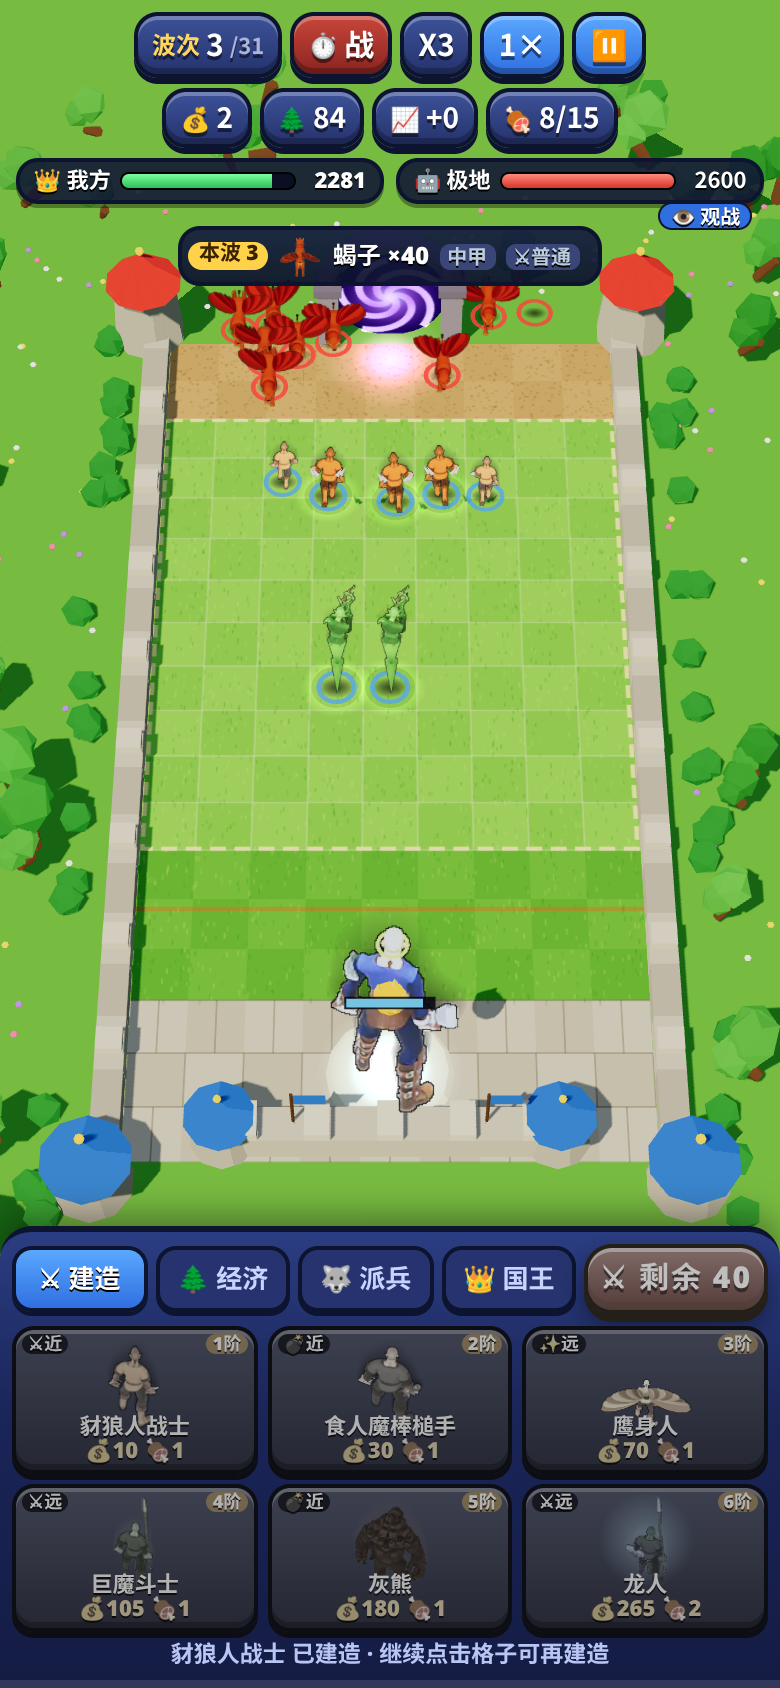
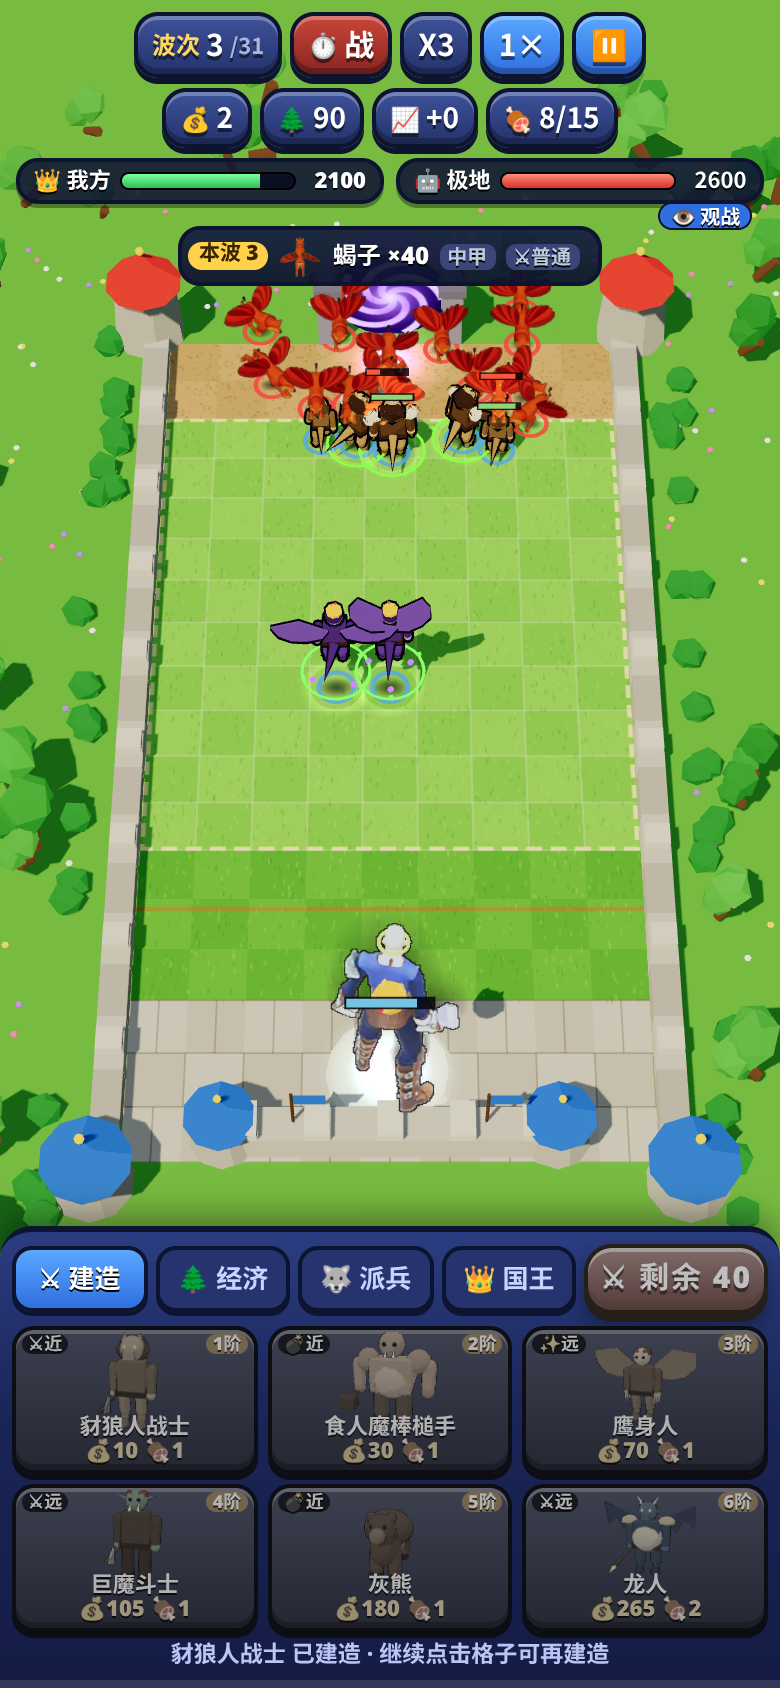
Model remake: Beast (gnolls, ogres, harpies, forest trolls, bears, dragonspawn, red dragon); humanoid lift option

diff --git a/toonrecipes.js b/toonrecipes.js
@@ -124,3 +124,16 @@ R('h07T',{k:1.12,h:1.08,legs:'none',floatY:0.22,lowC:0x2a8a9a,lowM:'n',torso:'ro
 R('h07U',{k:1.1,plan:'quad',skin:0x5a8a3a,skin2:0xc8b86a,headType:'lizard',eye:0xffe04a,legLen:0.2,bodyLen:0.75,bodyH:0.24,bw:1.2,tailLen:0.6,tailW:1.6,claws:true,spikes:true,spikeC:0xd87a3a,atk:'bite'});
 R('h07V',{k:1.18,h:1.12,bw:1.3,legs:'none',floatY:0.25,lowC:0x3a7a5a,lowM:'n',torso:'brute',head:'beast',headC:0x4a8a6a,skin:0x4a8a6a,torsoC:0x3a7a5a,sleeve:0x4a8a6a,handC:0x3a7a5a,metal:0xd8b860,eye:0xffe04a,weapon:'trident',wMetal:0xffd04a,pads:true,padC:0xd8b860,atk:'thrust',extras:['tail:0x3a7a5a','crest:0xd86a2a','plate:0xd8b860']});
 R('h07W',{k:1.15,h:1.2,bw:1.5,torso:'brute',head:'beast',headC:0x5a8a7a,skin:0x5a8a7a,torsoC:0x4a7a6a,legC:0x3a6a5a,sleeve:0x5a8a7a,handC:0x4a7a6a,bootC:0x2a4a3a,eye:0xffe04a,weapon:'hammer',wMetal:0x8a8a9a,wood:0x5a4a3a,atk:'slam',extras:['tusks','crest:0x2a6a8a','belly:0x9ac8b0','chains']});
+// ===================== 野兽 Beast：豺狼人、食人魔、鹰身人、森林巨魔、熊、龙人、红龙 =====================
+R('h010',{k:0.92,h:0.95,torso:'default',head:'beast',headC:0xc8a060,skin:0xc8a060,torsoC:0x8a6a3a,legC:0xb08a50,bootC:0x6a4a2a,beltC:0x4a3020,legs:'digit',eye:0xffd02a,weapon:'axe',wMetal:0x8a8a8a,wood:0x6a4a2a,atk:'swing',extras:['mane:0x6a4a2a','tail:0xb08a50']});
+R('h011',{k:1.08,h:1.02,bw:1.15,torso:'default',head:'beast',headC:0xd8b070,skin:0xd8b070,torsoC:0x6a4a2a,legC:0xc09858,bootC:0x4a3020,legs:'digit',eye:0xff4a2a,weapon:'axe',off:'axe',wMetal:0xa8a8b0,pads:true,padC:0xe8dcc0,spikes:true,atk:'swing',extras:['mane:0x4a3020','tail:0xc09858','bones','aura:0x8aff4a']});
+R('h012',{k:1.05,h:1.05,bw:1.4,torso:'brute',head:'default',headS:1.25,skin:0xd89a6a,torsoC:0xd89a6a,legC:0x7a5a3a,sleeve:0xd89a6a,handC:0xc88a5a,bootC:0x4a3020,beltC:0x5a3a20,weapon:'hammer',wood:0x6a4a2a,wMetal:0x6a4a2a,atk:'slam',extras:['tusks','belly:0xe8b088']});
+R('h013',{k:1.2,h:1.12,bw:1.5,torso:'brute',head:'default',headS:1.25,helm:'helm',metal:0x8a8a90,skin:0xc8804a,torsoC:0xc8804a,legC:0x5a3a2a,sleeve:0xc8804a,handC:0xb8703a,bootC:0x3a2a1a,weapon:'hammer',wMetal:0x9a9aa0,wood:0x5a3a2a,pads:true,padC:0x8a8a90,spikes:true,atk:'slam',extras:['tusks','belly:0xd89060','chains']});
+R('h014',{k:0.95,h:0.95,lift:0.35,flapAlways:true,torso:'default',head:'default',skin:0xe8b890,hair:0x8a4a2a,torsoC:0x8a5a3a,legC:0xa87a4a,legs:'digit',arms:'claw',wingSpan:1.1,eye:0xffd02a,atk:'cast',glow:0xff8a4a,extras:['wings:0xa87a4a','tail:0x8a5a3a']});
+R('h015',{k:1.1,h:1.05,lift:0.35,flapAlways:true,torso:'default',head:'default',helm:'crown',accent:0xffd04a,skin:0xb8a0e0,hair:0x4a2a6a,torsoC:0x5a3a8a,legC:0x6a4aa8,legs:'digit',arms:'claw',wingSpan:1.2,eye:0xffe0ff,glow:0xd08aff,atk:'cast',extras:['wings:0x7a5ab8','tail:0x5a3a8a','aura:0x8aff6a','orbit:0xd08aff']});
+R('h016',{k:1.0,h:1.08,torso:'default',head:'default',skin:0x6aa86a,torsoC:0x6a4a2a,legC:0x5a3a20,bootC:0x3a2a1a,hair:0xd83a2a,eye:0xff4a2a,weapon:'axe',wMetal:0xa8a8a8,atk:'swing',extras:['tusks','ears:0x6aa86a','quiver']});
+R('h017',{k:1.15,h:1.12,bw:1.15,torso:'default',head:'default',helm:'horns',hornC:0xe8dcc0,skin:0x5a986a,torsoC:0x5a3a2a,legC:0x4a2a1a,bootC:0x2a1a10,hair:0x3aa8ff,weapon:'spear',wMetal:0xd8d8d8,wood:0x6a4a2a,pads:true,padC:0xe8dcc0,atk:'thrust',extras:['tusks','ears:0x5a986a','mane:0x4a3a2a','bones','cape:0x2a6aa8']});
+R('h018',{k:1.1,plan:'quad',skin:0x7a5030,skin2:0xa07848,headType:'bear',eye:0x2a2a2a,pawC:0x3a2a1a,legLen:0.3,bodyLen:0.72,bodyH:0.34,bw:1.25,tailLen:0.08,claws:true,hump:true,atk:'claw'});
+R('h019',{k:1.25,plan:'quad',skin:0x8a8a90,skin2:0xb8b8c0,headType:'bear',eye:0xffe04a,pawC:0x3a3a3a,legLen:0.32,bodyLen:0.76,bodyH:0.36,bw:1.3,tailLen:0.08,claws:true,hump:true,mane:true,maneC:0xd8d8e0,saddle:0x6a4a8a,spikes:true,spikeC:0xd8c87a,atk:'claw',extras:['aura:0xffe06a']});
+R('h01A',{k:1.15,h:1.1,bw:1.2,torso:'default',head:'beast',headC:0x3a7ab8,helm:'horns',hornC:0xe8dcc0,skin:0x3a7ab8,torsoC:0x2a5a98,legC:0x2a5a98,bootC:0x1a3a6a,metal:0xd8b860,legs:'digit',eye:0xffe04a,weapon:'spear',wMetal:0xffd04a,pads:true,padC:0xd8b860,atk:'thrust',extras:['bwings:0x2a4a8a','tail:0x3a7ab8','belly:0xd8c890']});
+R('h01B',{k:1.12,plan:'flyer',skin:0xc8302a,skin2:0xf0c070,wingC:0x8a1a1a,eye:0xffe04a,crest:0xffa02a,crestM:'e',neckLen:0.8,tailLen:0.55,wingSpan:1.15,alt:0.38,atk:'bite',extras:['spikes:0xffd04a','rings:0xff8a2a'],trail:0xff8a2a});

diff --git a/toonkit.js b/toonkit.js
@@ -98,7 +98,7 @@ const lt=(c,k=0.35)=>{_c.setHex(c);_c.lerp(new THREE.Color(1,1,1),k);return _c.g
 const PLANS={};
 // humanoid: h=height scale, bw=bulk, kind of head/torso/legs, weapon, offhand, extras list
 PLANS.humanoid=(B,o)=>{const h=o.h||1,bw=o.bw||1,sk=o.skin??0xe8b88a,cl=o.cloth??0x5a6aa0,mt=o.metal??0xa8b0bc,ac=o.accent??0xd8a83a;
-  const legL=o.legs==='none'?0:(o.legLen||0.36)*h,hipY=o.legs==='none'?(o.floatY||0.45)*h:legL+0.04*h;const tH=(o.torsoH||0.36)*h,tW=0.3*bw*h,tD=0.2*bw*h;
+  const legL=o.legs==='none'?0:(o.legLen||0.36)*h,hipY=(o.legs==='none'?(o.floatY||0.45)*h:legL+0.04*h)+(o.lift||0)*h;const tH=(o.torsoH||0.36)*h,tW=0.3*bw*h,tD=0.2*bw*h;
   B.part('hips','body',[0,hipY,0]).part('torso','hips',[0,0,0]);
   // legs
   if(o.legs!=='none'){for(const [n,s] of [['legL',1],['legR',-1]]){B.part(n,'hips',[s*0.09*bw*h,0,0]);const lc=o.legC??dk(cl,0.75);
@@ -150,7 +150,7 @@ PLANS.humanoid=(B,o)=>{const h=o.h||1,bw=o.bw||1,sk=o.skin??0xe8b88a,cl=o.cloth?
       if(o.arms==='claw')for(const dx of [-0.025,0,0.025])B.add(n,'cone',[0.015*h,0.09*h,4],[dx*h,-aL-0.04*h,0.03*h],0xf0e8d0,{r:[2.6,0,0]});}
     if(o.pads)B.add(n,'sph',[0.085*h*bw,8,6,0,Math.PI*2,0,Math.PI/2],[s*0.01,0.02,0],o.padC??mt,{s:[1.1,0.8,1.1]});
     if(o.spikes&&o.pads)B.add(n,'cone',[0.025*h,0.1*h,4],[s*0.02,0.09*h,0],0xd8d8d8);}
-  B.meta.armSpread=o.armSpread??0.08;B.meta.hover=o.legs==='none';B.meta.stride=o.stride;
+  B.meta.armSpread=o.armSpread??0.08;B.meta.hover=o.legs==='none'||!!o.lift;B.meta.stride=o.stride;
   const hy=-aL;// hand position in arm space
   weapon(B,'armR',o.weapon,o,h,hy);weapon(B,'armL',o.off,o,h,hy,true);
   // extras

diff --git a/index.html b/index.html
@@ -10,9 +10,9 @@
 <link rel="manifest" href="manifest.webmanifest">
 <link rel="icon" type="image/png" href="icons/favicon-32.png">
 <link rel="apple-touch-icon" href="icons/apple-touch-icon.png">
-<link rel="stylesheet" href="style.css?v=10">
-<link rel="stylesheet" href="td.css?v=10">
-<link rel="stylesheet" href="lt.css?v=10">
+<link rel="stylesheet" href="style.css?v=11">
+<link rel="stylesheet" href="td.css?v=11">
+<link rel="stylesheet" href="lt.css?v=11">
 </head>
 <body class="td lt">
 <canvas id="cv"></canvas>
@@ -75,8 +75,8 @@
 </div>
 <div id="showTitle" class="hidden"></div>
 <script src="audio.js?v=1"></script>
-<script src="lt_core.js?v=10"></script>
+<script src="lt_core.js?v=11"></script>
 <script type="importmap">{"imports":{"three":"./lib/three.module.min.js","three/addons/":"./lib/addons/"}}</script>
-<script type="module" src="lt.js?v=10"></script>
+<script type="module" src="lt.js?v=11"></script>
 </body>
 </html>

diff --git a/lt.js b/lt.js
@@ -3,8 +3,8 @@ import * as THREE from 'three';
 import {SPR_UNITS,SPR_K,SPR_V} from './sprdata.js';
 import {MODELS,modelOf} from './models.js';
 import {ABZ as ABZ_} from './abil_zh.js';
-import {initTK,buildTK,animTK} from './toonkit.js?v=10';
-import {TKR} from './toonrecipes.js?v=10';
+import {initTK,buildTK,animTK} from './toonkit.js?v=11';
+import {TKR} from './toonrecipes.js?v=11';
 const LT=window.LT,S=SFX.S,$=id=>document.getElementById(id);
 const Q=location.search;const DEBUG=/[?&]debug/.test(Q);const SHOWCASE=(Q.match(/[?&]showcase=([^&]+)/)||[])[1];
 const W=LT.W,H=LT.H,W2=W/2,H2=H/2;const B=LT.BUILD;

diff --git a/data/model_audit.md b/data/model_audit.md
@@ -23,7 +23,7 @@
 | 种族 | 兵种数 | 平均不符度 | 严重 | 已重做 |
 |---|---|---|---|---|
 | Mech 机械 | 13 | 2.31 | 7 | 13 |
-| Beast 野兽 | 12 | 1.42 | 1 | 0 |
+| Beast 野兽 | 12 | 1.42 | 1 | 12 |
 | Shadow 暗影 | 14 | 1.43 | 2 | 10 |
 | Nature 自然 | 13 | 1.31 | 1 | 0 |
 | Element 元素 | 12 | 1.58 | 2 | 12 |
@@ -205,18 +205,18 @@
 
 | id | 兵种 | WC3 模型 | 旧资源 | 旧资源符合度 | 处理 |
 |---|---|---|---|---|---|
-| h010 | Gnoll Warrior 豺狼人战士 | Gnoll | 精灵 gnoll | ✅ 基本相符 | 保留，后续统一换 ToonKit 时顺带做 |
-| h011 | Gnoll Savage 豺狼人野蛮人 | Gnoll | 精灵 gnoll | ✅ 基本相符 | 保留，后续统一换 ToonKit 时顺带做 |
-| h012 | Ogre Basher 食人魔棒槌手 | Ogre | 精灵 ogre | ✅ 基本相符 | 保留，后续统一换 ToonKit 时顺带做 |
-| h013 | Ogre Pulverizer 食人魔粉碎者 | OgreLord | 精灵 ogre | ✅ 基本相符 | 保留，后续统一换 ToonKit 时顺带做 |
-| h014 | Harpy 鹰身人 | Harpy | 精灵 harpy | ✅ 基本相符 | 保留，后续统一换 ToonKit 时顺带做 |
-| h015 | Medusa 美杜莎 | HarpyWitch | 精灵 medusa | ❌ 严重不符 | ToonKit 程序化重做（按 WC3 轮廓/配色） |
-| h016 | Troll Fighter 巨魔斗士 | ForestTroll | 精灵 troglodyte | ⚠ 部分不符 | ToonKit 程序化重做（按 WC3 轮廓/配色） |
-| h017 | Troll Champion 巨魔勇士 | ForestTrollTrapper | 精灵 troglodyte | ⚠ 部分不符 | ToonKit 程序化重做（按 WC3 轮廓/配色） |
-| h018 | Grizzly 灰熊 | GrizzlyBear | 精灵 behemoth | ⚠ 部分不符 | ToonKit 程序化重做（按 WC3 轮廓/配色） |
-| h019 | Greymane 灰鬃熊德 | DruidoftheClaw | 精灵 behemoth | ✅ 基本相符 | 保留，后续统一换 ToonKit 时顺带做 |
-| h01A | Spawn of Dragon 龙人 | DragonSpawnBlue | 精灵 lizardman | ✅ 基本相符 | 保留，后续统一换 ToonKit 时顺带做 |
-| h01B | Dragon Aspect 红龙守护者 | RedDragon | 精灵 redDragon | ✅ 基本相符 | 保留，后续统一换 ToonKit 时顺带做 |
+| h010 | Gnoll Warrior 豺狼人战士 | Gnoll | 精灵 gnoll | ✅ 基本相符 | **已重做**：ToonKit 程序化卡通模型（humanoid） |
+| h011 | Gnoll Savage 豺狼人野蛮人 | Gnoll | 精灵 gnoll | ✅ 基本相符 | **已重做**：ToonKit 程序化卡通模型（humanoid） |
+| h012 | Ogre Basher 食人魔棒槌手 | Ogre | 精灵 ogre | ✅ 基本相符 | **已重做**：ToonKit 程序化卡通模型（humanoid） |
+| h013 | Ogre Pulverizer 食人魔粉碎者 | OgreLord | 精灵 ogre | ✅ 基本相符 | **已重做**：ToonKit 程序化卡通模型（humanoid） |
+| h014 | Harpy 鹰身人 | Harpy | 精灵 harpy | ✅ 基本相符 | **已重做**：ToonKit 程序化卡通模型（humanoid） |
+| h015 | Medusa 美杜莎 | HarpyWitch | 精灵 medusa | ❌ 严重不符 | **已重做**：ToonKit 程序化卡通模型（humanoid） |
+| h016 | Troll Fighter 巨魔斗士 | ForestTroll | 精灵 troglodyte | ⚠ 部分不符 | **已重做**：ToonKit 程序化卡通模型（humanoid） |
+| h017 | Troll Champion 巨魔勇士 | ForestTrollTrapper | 精灵 troglodyte | ⚠ 部分不符 | **已重做**：ToonKit 程序化卡通模型（humanoid） |
+| h018 | Grizzly 灰熊 | GrizzlyBear | 精灵 behemoth | ⚠ 部分不符 | **已重做**：ToonKit 程序化卡通模型（quad） |
+| h019 | Greymane 灰鬃熊德 | DruidoftheClaw | 精灵 behemoth | ✅ 基本相符 | **已重做**：ToonKit 程序化卡通模型（quad） |
+| h01A | Spawn of Dragon 龙人 | DragonSpawnBlue | 精灵 lizardman | ✅ 基本相符 | **已重做**：ToonKit 程序化卡通模型（humanoid） |
+| h01B | Dragon Aspect 红龙守护者 | RedDragon | 精灵 redDragon | ✅ 基本相符 | **已重做**：ToonKit 程序化卡通模型（flyer） |
 
 ## Nature 自然
 
